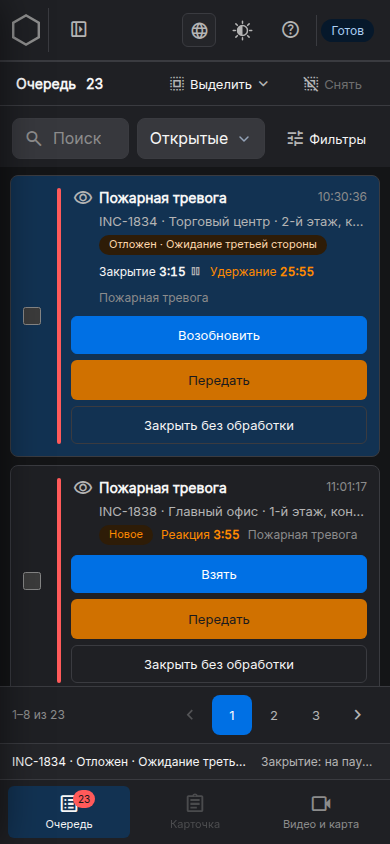
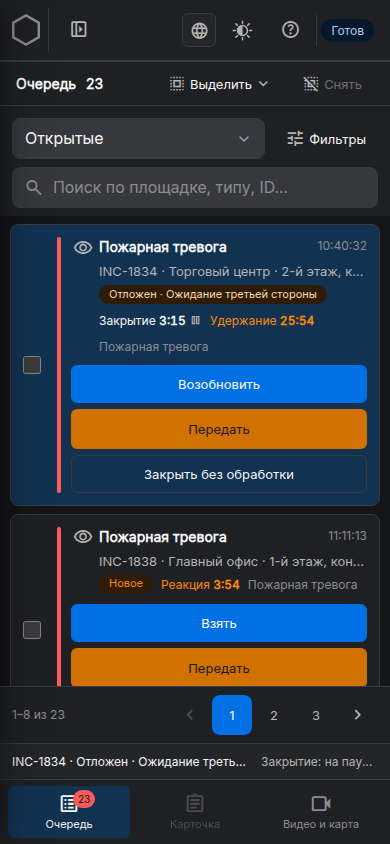
BUG-94: на телефоне поиск очереди — отдельной строкой под фильтром
На узком экране фильтр очереди и «Фильтры» — первой строкой, поиск — второй, на всю ширину: на 360 px полю оставалось 70–90 px. Проверка экрана: видимое поле поиска не уже 160 px. Шаг самопроверки BUG-50: порог шапки очереди — 160 px вместо 120 (решение в таблице плана). Снимки телефона пересняты.

diff --git a/prototype/selftest.js b/prototype/selftest.js
@@ -1632,7 +1632,7 @@
       }
     });
 
-    await step("На телефоне 360 пикселей страница не шире экрана; шапка очереди и фильтры — не выше 120 px, типы — под «Фильтры» с числом выбранных (BUG-50); Esc закрывает панель групп (RULE-91); названия в дереве различимы (BUG-65)", async () => {
+    await step("На телефоне 360 пикселей страница не шире экрана; шапка очереди и фильтры — не выше 160 px, поиск — отдельной строкой (BUG-94), типы — под «Фильтры» с числом выбранных (BUG-50); Esc закрывает панель групп (RULE-91); названия в дереве различимы (BUG-65)", async () => {
       const frame = document.createElement("iframe");
       frame.style.cssText = "position:fixed;left:-9999px;top:0;width:360px;height:740px;border:0";
       const report = new Promise((resolve) => {
@@ -1651,7 +1651,8 @@
       frame.remove();
       expect(r, "узкая страница не ответила");
       expect(r.scroll <= r.width, `ширина ${r.scroll} при экране ${r.width}: ${r.wide.join(", ")}`);
-      expect(r.filters <= 120, `шапка очереди и фильтры — ${r.filters} px, на список мало места`);
+      // Поиск — отдельной строкой не уже 160 px (BUG-94, решение 2026-10-23): порог шапки — 160 px вместо 120
+      expect(r.filters <= 160, `шапка очереди и фильтры — ${r.filters} px, на список мало места`);
       expect(r.more.typesHidden, "типы видны без «Фильтры»");
       expect(r.more.typesShown, "«Фильтры» не открыли типы");
       expect(r.more.counted, "на «Фильтры» нет числа выбранных типов");

diff --git a/prototype/styles.css b/prototype/styles.css
@@ -2127,8 +2127,11 @@ select.search-input { padding-right: 36px; }
 
   /* Шапка очереди — одной строкой; поиск, состояние и «Фильтры» — второй. Типы и порядок —
      под «Фильтры»: на список остаётся место (BUG-50) */
-  .events-toolbar { grid-template-columns: minmax(0, 1fr) auto auto; }
-  .events-toolbar select { min-width: 0; max-width: 132px; }
+  /* Фильтр и «Фильтры» — первой строкой, поиск — отдельной под ними: в одну строку с ними на 360 px полю
+     оставалось 70–90 px (BUG-94) */
+  .events-toolbar { grid-template-columns: minmax(0, 1fr) auto; }
+  .events-toolbar select { min-width: 0; }
+  .events-toolbar .search-wrapper { grid-column: 1 / -1; grid-row: 2; }
   .events-more { display: inline-flex; }
   .events-types { grid-row: auto; }
   .events-toolbar .events-sort { grid-column: 1 / -1; max-width: none; }

diff --git a/tools/check_ui.py b/tools/check_ui.py
@@ -163,6 +163,12 @@ CHECK = r"""(() => {
     }
   });
 
+  // Поле поиска не уже 160 px: на телефоне поиск очереди сжимался до «Пс» (BUG-94)
+  all.filter((el) => el.matches('input[type=search]')).forEach((el) => {
+    const w = el.getBoundingClientRect().width;
+    if (w < 160) add('ширина', el, 'поле поиска ' + Math.round(w) + ' px, нужно не уже 160');
+  });
+
   // Тексты: ключи каталога и подсказки с клавишами
   const KEY = /\bworkflow\.[a-z_]+\./;
   const HOTKEY = /\((?:[←→↑↓]|Esc|Enter|Tab|Ctrl|Alt|Shift|F\d+)[^)]*\)|\b(?:Ctrl|Alt|Shift)\s*\+/;

diff --git a/reviews/2026-10-23/plan.md b/reviews/2026-10-23/plan.md
@@ -65,6 +65,7 @@
 | RULE-111 | Подсказка про автоэскалацию в меню пользователя и «Результат уйдёт в AxxonData». | а) оставить, описать в §7 или §12 и в руководстве простыми словами, без «администратора схемы»; б) убрать из интерфейса | Решает продакт | б) | joynickray, 2026-10-23 |
 | DATA-10 | Время в журналах эталонного набора и таймеры. | а) подогнать время журналов под таймеры; б) распространить решение DATA-02 («таймеры — от снимка») на все таймеры и записать это в README машины | б): правило уже действует для реакции, набор не придётся пересчитывать при каждой правке | б) | joynickray, 2026-10-23 |
 | DATA-11 | Роли «Оператор» и «Старший оператор» одинаковы, рядовой `me` — в «Старших операторах». | а) развести права ролей по §1 и руководству; объяснить в README машины, зачем `me` в группе алертов; б) оставить и записать в README машины, что это упрощение демо | а): демо показывает разницу уровней прав из Vision | б) | joynickray, 2026-10-23 |
+| BUG-94 | Поиск отдельной строкой делает шапку очереди на телефоне 154 px, а шаг самопроверки BUG-50 требует не выше 120 px | а) поиск строкой, порог самопроверки — 160 px; б) одна строка, «Фильтры» — значком, фильтр уже; в) поиск — лупой, раскрывается по нажатию | а) | а) | joynickray, 2026-10-23 |
 | PROC-47 | Широкий прогон случайных проверок. | а) ночной прогон в CI: 20 зёрен × 200 шагов; б) только по запросу, параметрами `seeds` и `steps` | а): устаревший инвариант нашёлся бы сам | а) | joynickray, 2026-10-23 |
 
 ### После решений: прототип
